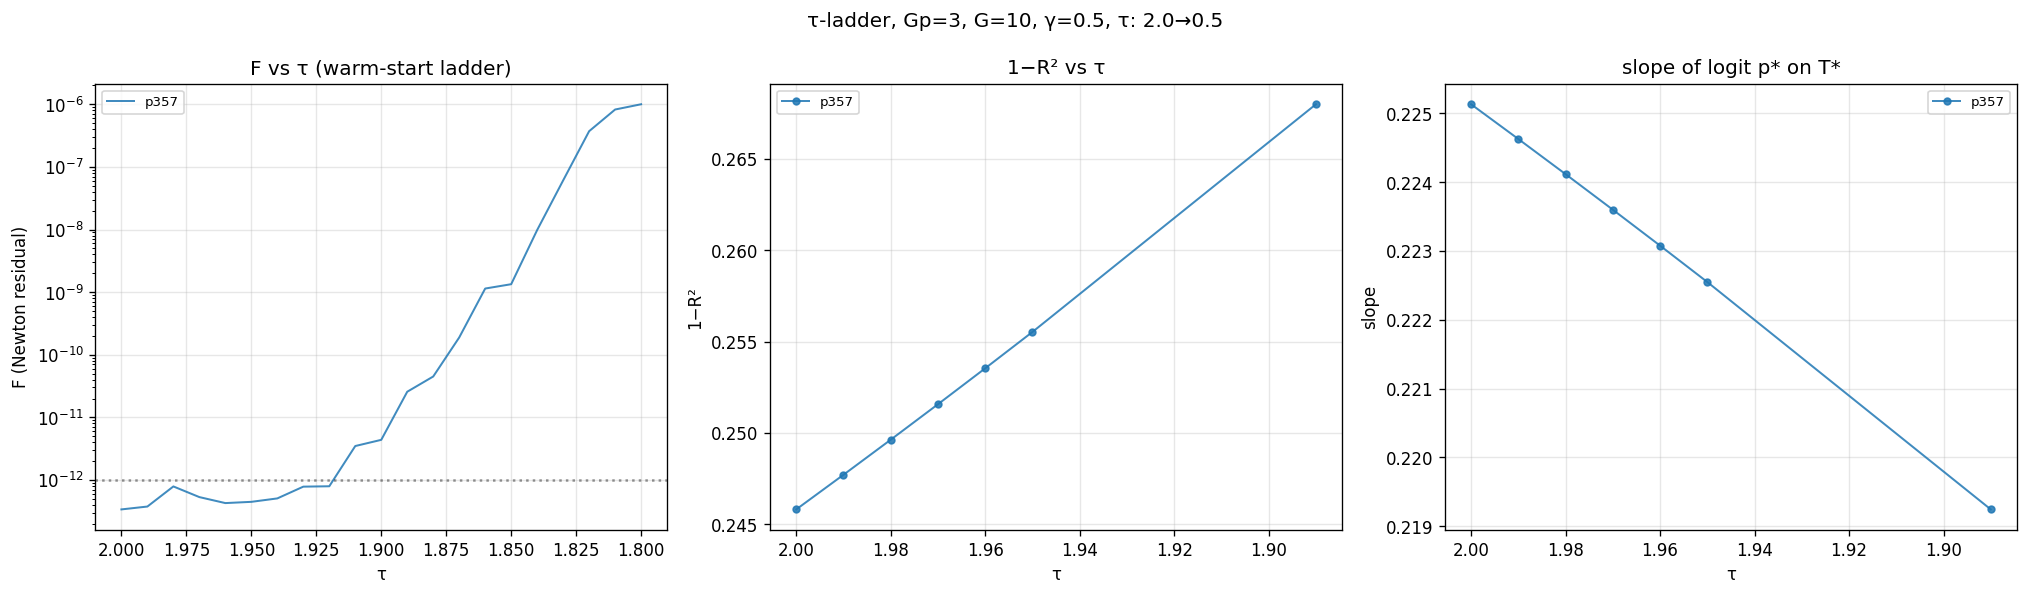
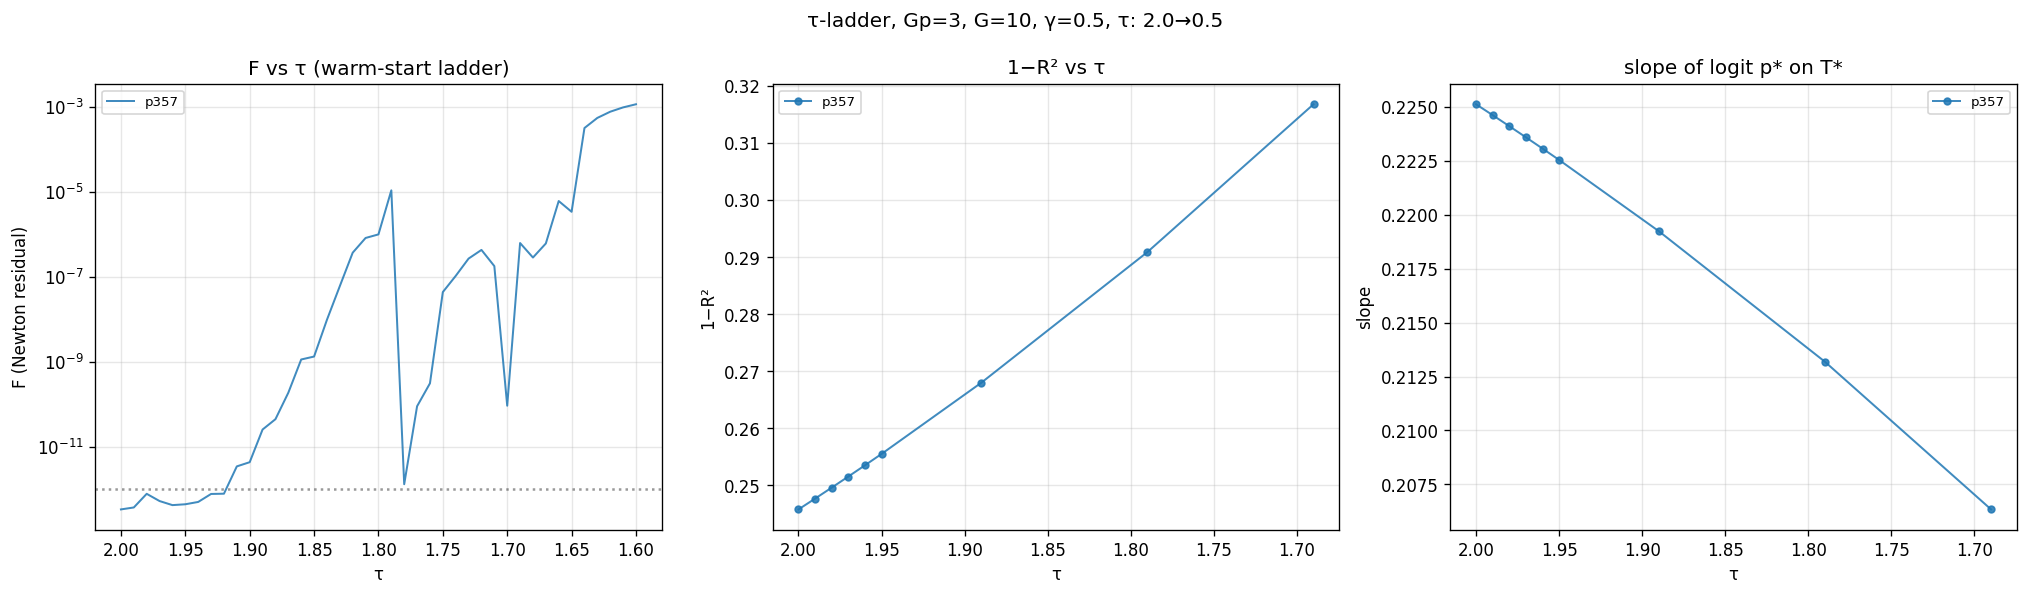
τ-ladder p357: τ→1.60

diff --git a/projects/REZN/checkpoints/tau_ladder/summary.md b/projects/REZN/checkpoints/tau_ladder/summary.md
@@ -21,3 +21,23 @@
 | p357 | 1.82 | 3.72e-07 | 20 | nan | nan | 4.9s |
 | p357 | 1.81 | 8.25e-07 | 20 | nan | nan | 4.9s |
 | p357 | 1.80 | 1.00e-06 | 20 | nan | nan | 4.9s |
+| p357 | 1.79 | 1.09e-05 | 20 | 0.2909 | 0.213 | 5.0s |
+| p357 | 1.78 | 1.33e-12 | 20 | nan | nan | 5.2s |
+| p357 | 1.77 | 9.05e-11 | 20 | nan | nan | 5.6s |
+| p357 | 1.76 | 3.13e-10 | 20 | nan | nan | 5.7s |
+| p357 | 1.75 | 4.40e-08 | 20 | nan | nan | 5.9s |
+| p357 | 1.74 | 1.06e-07 | 20 | nan | nan | 6.3s |
+| p357 | 1.73 | 2.70e-07 | 20 | nan | nan | 6.4s |
+| p357 | 1.72 | 4.32e-07 | 20 | nan | nan | 6.4s |
+| p357 | 1.71 | 1.80e-07 | 20 | nan | nan | 6.8s |
+| p357 | 1.70 | 9.33e-11 | 20 | nan | nan | 6.4s |
+| p357 | 1.69 | 6.27e-07 | 20 | 0.3168 | 0.206 | 6.9s |
+| p357 | 1.68 | 2.86e-07 | 20 | nan | nan | 7.6s |
+| p357 | 1.67 | 6.12e-07 | 20 | nan | nan | 8.1s |
+| p357 | 1.66 | 6.10e-06 | 20 | nan | nan | 8.6s |
+| p357 | 1.65 | 3.41e-06 | 20 | nan | nan | 9.9s |
+| p357 | 1.64 | 3.18e-04 | 3 | nan | nan | 2.5s |
+| p357 | 1.63 | 5.50e-04 | 6 | nan | nan | 4.5s |
+| p357 | 1.62 | 7.70e-04 | 4 | nan | nan | 3.2s |
+| p357 | 1.61 | 9.73e-04 | 4 | nan | nan | 3.3s |
+| p357 | 1.60 | 1.15e-03 | 3 | nan | nan | 2.5s |